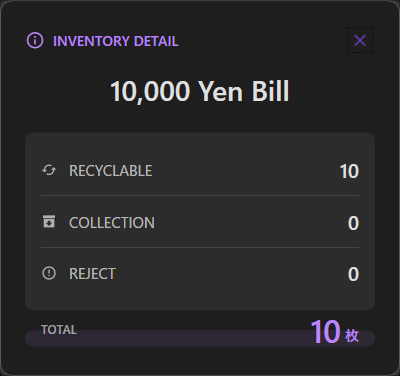
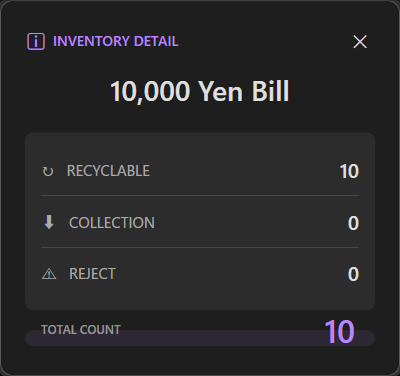
docs/test: update screenshots and add missing Wpf unit tests

diff --git a/test/CashChangerSimulator.Tests/UI/Wpf/Services/DeviceFacadeTests.cs b/test/CashChangerSimulator.Tests/UI/Wpf/Services/DeviceFacadeTests.cs
@@ -1,0 +1,63 @@
+using CashChangerSimulator.Core.Managers;
+using CashChangerSimulator.Core.Models;
+using CashChangerSimulator.Core.Services;
+using CashChangerSimulator.Core.Transactions;
+using CashChangerSimulator.Device;
+using CashChangerSimulator.Device.Coordination;
+using CashChangerSimulator.UI.Wpf.Services;
+using System.Runtime.CompilerServices;
+using Moq;
+using Shouldly;
+using Xunit;
+
+namespace CashChangerSimulator.Tests.UI.Wpf.Services;
+
+public class DeviceFacadeTests
+{
+    [Fact]
+    public void Constructor_WithValidArguments_ShouldSetProperties()
+    {
+        // Arrange
+        var inventory = new Inventory();
+        var manager = (CashChangerManager)RuntimeHelpers.GetUninitializedObject(typeof(CashChangerManager));
+        var deposit = (DepositController)RuntimeHelpers.GetUninitializedObject(typeof(DepositController));
+        var dispense = (DispenseController)RuntimeHelpers.GetUninitializedObject(typeof(DispenseController));
+        var status = (HardwareStatusManager)RuntimeHelpers.GetUninitializedObject(typeof(HardwareStatusManager));
+        var changer = (SimulatorCashChanger)RuntimeHelpers.GetUninitializedObject(typeof(SimulatorCashChanger));
+        var history = (TransactionHistory)RuntimeHelpers.GetUninitializedObject(typeof(TransactionHistory));
+        var aggregator = (OverallStatusAggregatorProvider)RuntimeHelpers.GetUninitializedObject(typeof(OverallStatusAggregatorProvider));
+        var monitors = (MonitorsProvider)RuntimeHelpers.GetUninitializedObject(typeof(MonitorsProvider));
+        var notify = new Mock<INotifyService>().Object;
+
+        // Act
+        var facade = new DeviceFacade(
+            inventory,
+            manager,
+            deposit,
+            dispense,
+            status,
+            changer,
+            history,
+            aggregator,
+            monitors,
+            notify);
+
+        // Assert
+        facade.Inventory.ShouldBeSameAs(inventory);
+        facade.Manager.ShouldBeSameAs(manager);
+        facade.Deposit.ShouldBeSameAs(deposit);
+        facade.Dispense.ShouldBeSameAs(dispense);
+        facade.Status.ShouldBeSameAs(status);
+        facade.Changer.ShouldBeSameAs(changer);
+        facade.History.ShouldBeSameAs(history);
+        facade.AggregatorProvider.ShouldBeSameAs(aggregator);
+        facade.Monitors.ShouldBeSameAs(monitors);
+        facade.Notify.ShouldBeSameAs(notify);
+    }
+
+    [Fact]
+    public void Constructor_WithNullArgument_ShouldThrowArgumentNullException()
+    {
+        Should.Throw<ArgumentNullException>(() => new DeviceFacade(null!, null!, null!, null!, null!, null!, null!, null!, null!, null!));
+    }
+}

diff --git a/test/CashChangerSimulator.Tests/UI/Wpf/Services/ViewModelFactoryTests.cs b/test/CashChangerSimulator.Tests/UI/Wpf/Services/ViewModelFactoryTests.cs
@@ -1,0 +1,43 @@
+using CashChangerSimulator.Core.Models;
+using CashChangerSimulator.UI.Wpf.Services;
+using CashChangerSimulator.UI.Wpf.ViewModels;
+using Microsoft.Extensions.DependencyInjection;
+using Moq;
+using R3;
+using Shouldly;
+using Xunit;
+
+namespace CashChangerSimulator.Tests.UI.Wpf.Services;
+
+public class ViewModelFactoryTests
+{
+    [Fact]
+    public void Constructor_WithNullProvider_ShouldThrowArgumentNullException()
+    {
+        Should.Throw<ArgumentNullException>(() => new ViewModelFactory(null!));
+    }
+
+    [Fact]
+    public void CreateDepositViewModel_ShouldResolveFromServiceProvider()
+    {
+        // Arrange
+        var services = new ServiceCollection();
+        // Mocking the viewmodel is hard if it has many dependencies, so we create a dummy object or register a mock.
+        // Wait, DepositViewModel is a concrete type. 
+        // We will just verify that the factory attempts to resolve it.
+        var providerMock = new Mock<IServiceProvider>();
+        
+        // DepositViewModel does not have a parameterless constructor, so we can't easily mock return value of concrete class without its dependencies.
+        // Instead, we just verify GetService is called.
+        
+        var factory = new ViewModelFactory(providerMock.Object);
+
+        // Act & Assert
+        // ActivatorUtilities will try to resolve dependencies from the provider.
+        // Since we didn't register them, it will likely throw.
+        var getDenoms = new Func<IEnumerable<DenominationViewModel>>(() => Enumerable.Empty<DenominationViewModel>());
+        var isBusy = new BindableReactiveProperty<bool>(false);
+        
+        Should.Throw<InvalidOperationException>(() => factory.CreateDepositViewModel(getDenoms, isBusy));
+    }
+}
